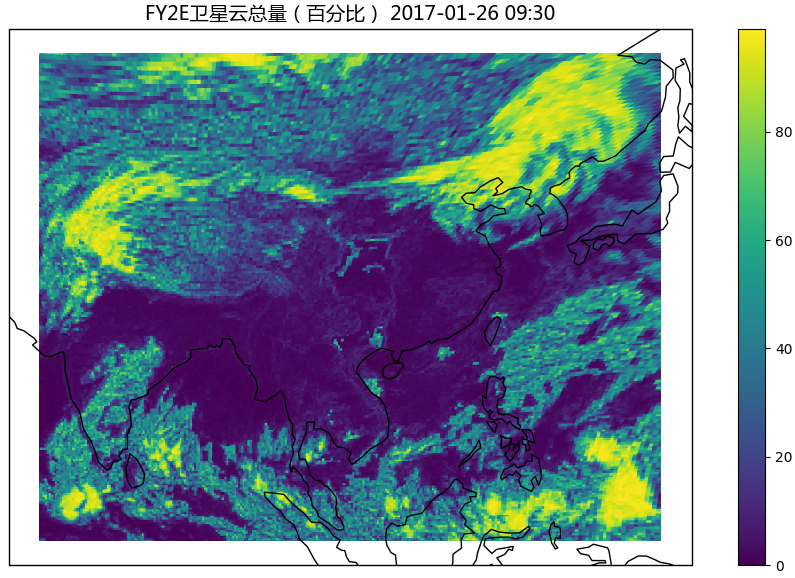
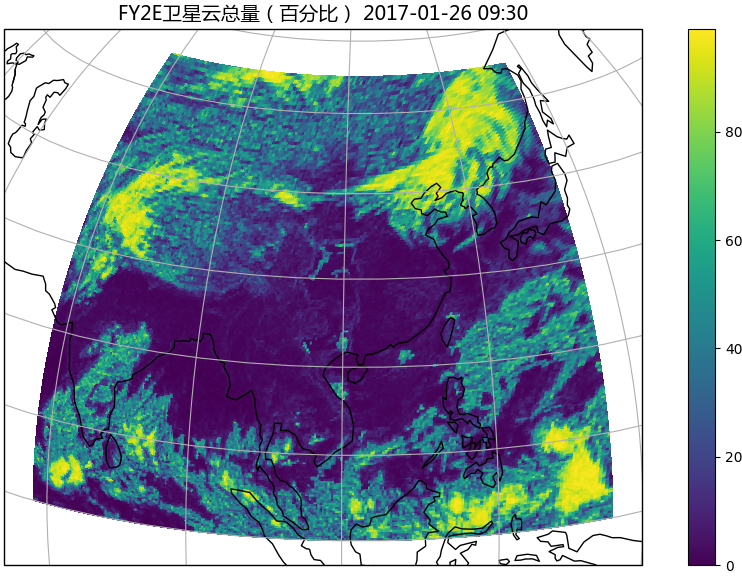
test

diff --git a/src/awx.py b/src/awx.py
@@ -65,10 +65,11 @@ class AwxGridField(object):
         from matplotlib.font_manager import FontProperties
         font = FontProperties(fname="../data/msyh.ttf", size=14)
         fig = plt.figure(figsize=(12, 7))
-        ax = plt.axes(projection=ccrs.PlateCarree())
-        cs = ax.pcolormesh(self.lon, self.lat, self.data)
+        ax = plt.axes(projection=ccrs.Orthographic(110, 20))
+        cs = ax.pcolormesh(self.lon, self.lat, self.data, transform=ccrs.PlateCarree())
         fig.colorbar(cs)
         ax.coastlines()
+        ax.gridlines()
         plt.title('{}卫星{} {:%Y-%m-%d %H:%M}'.format(self.satellite,
                                                      self._element_dict[self.head_level2['grid_element']],
                                                      self.obs_start_datetime(BJT=True)), fontproperties=font)
